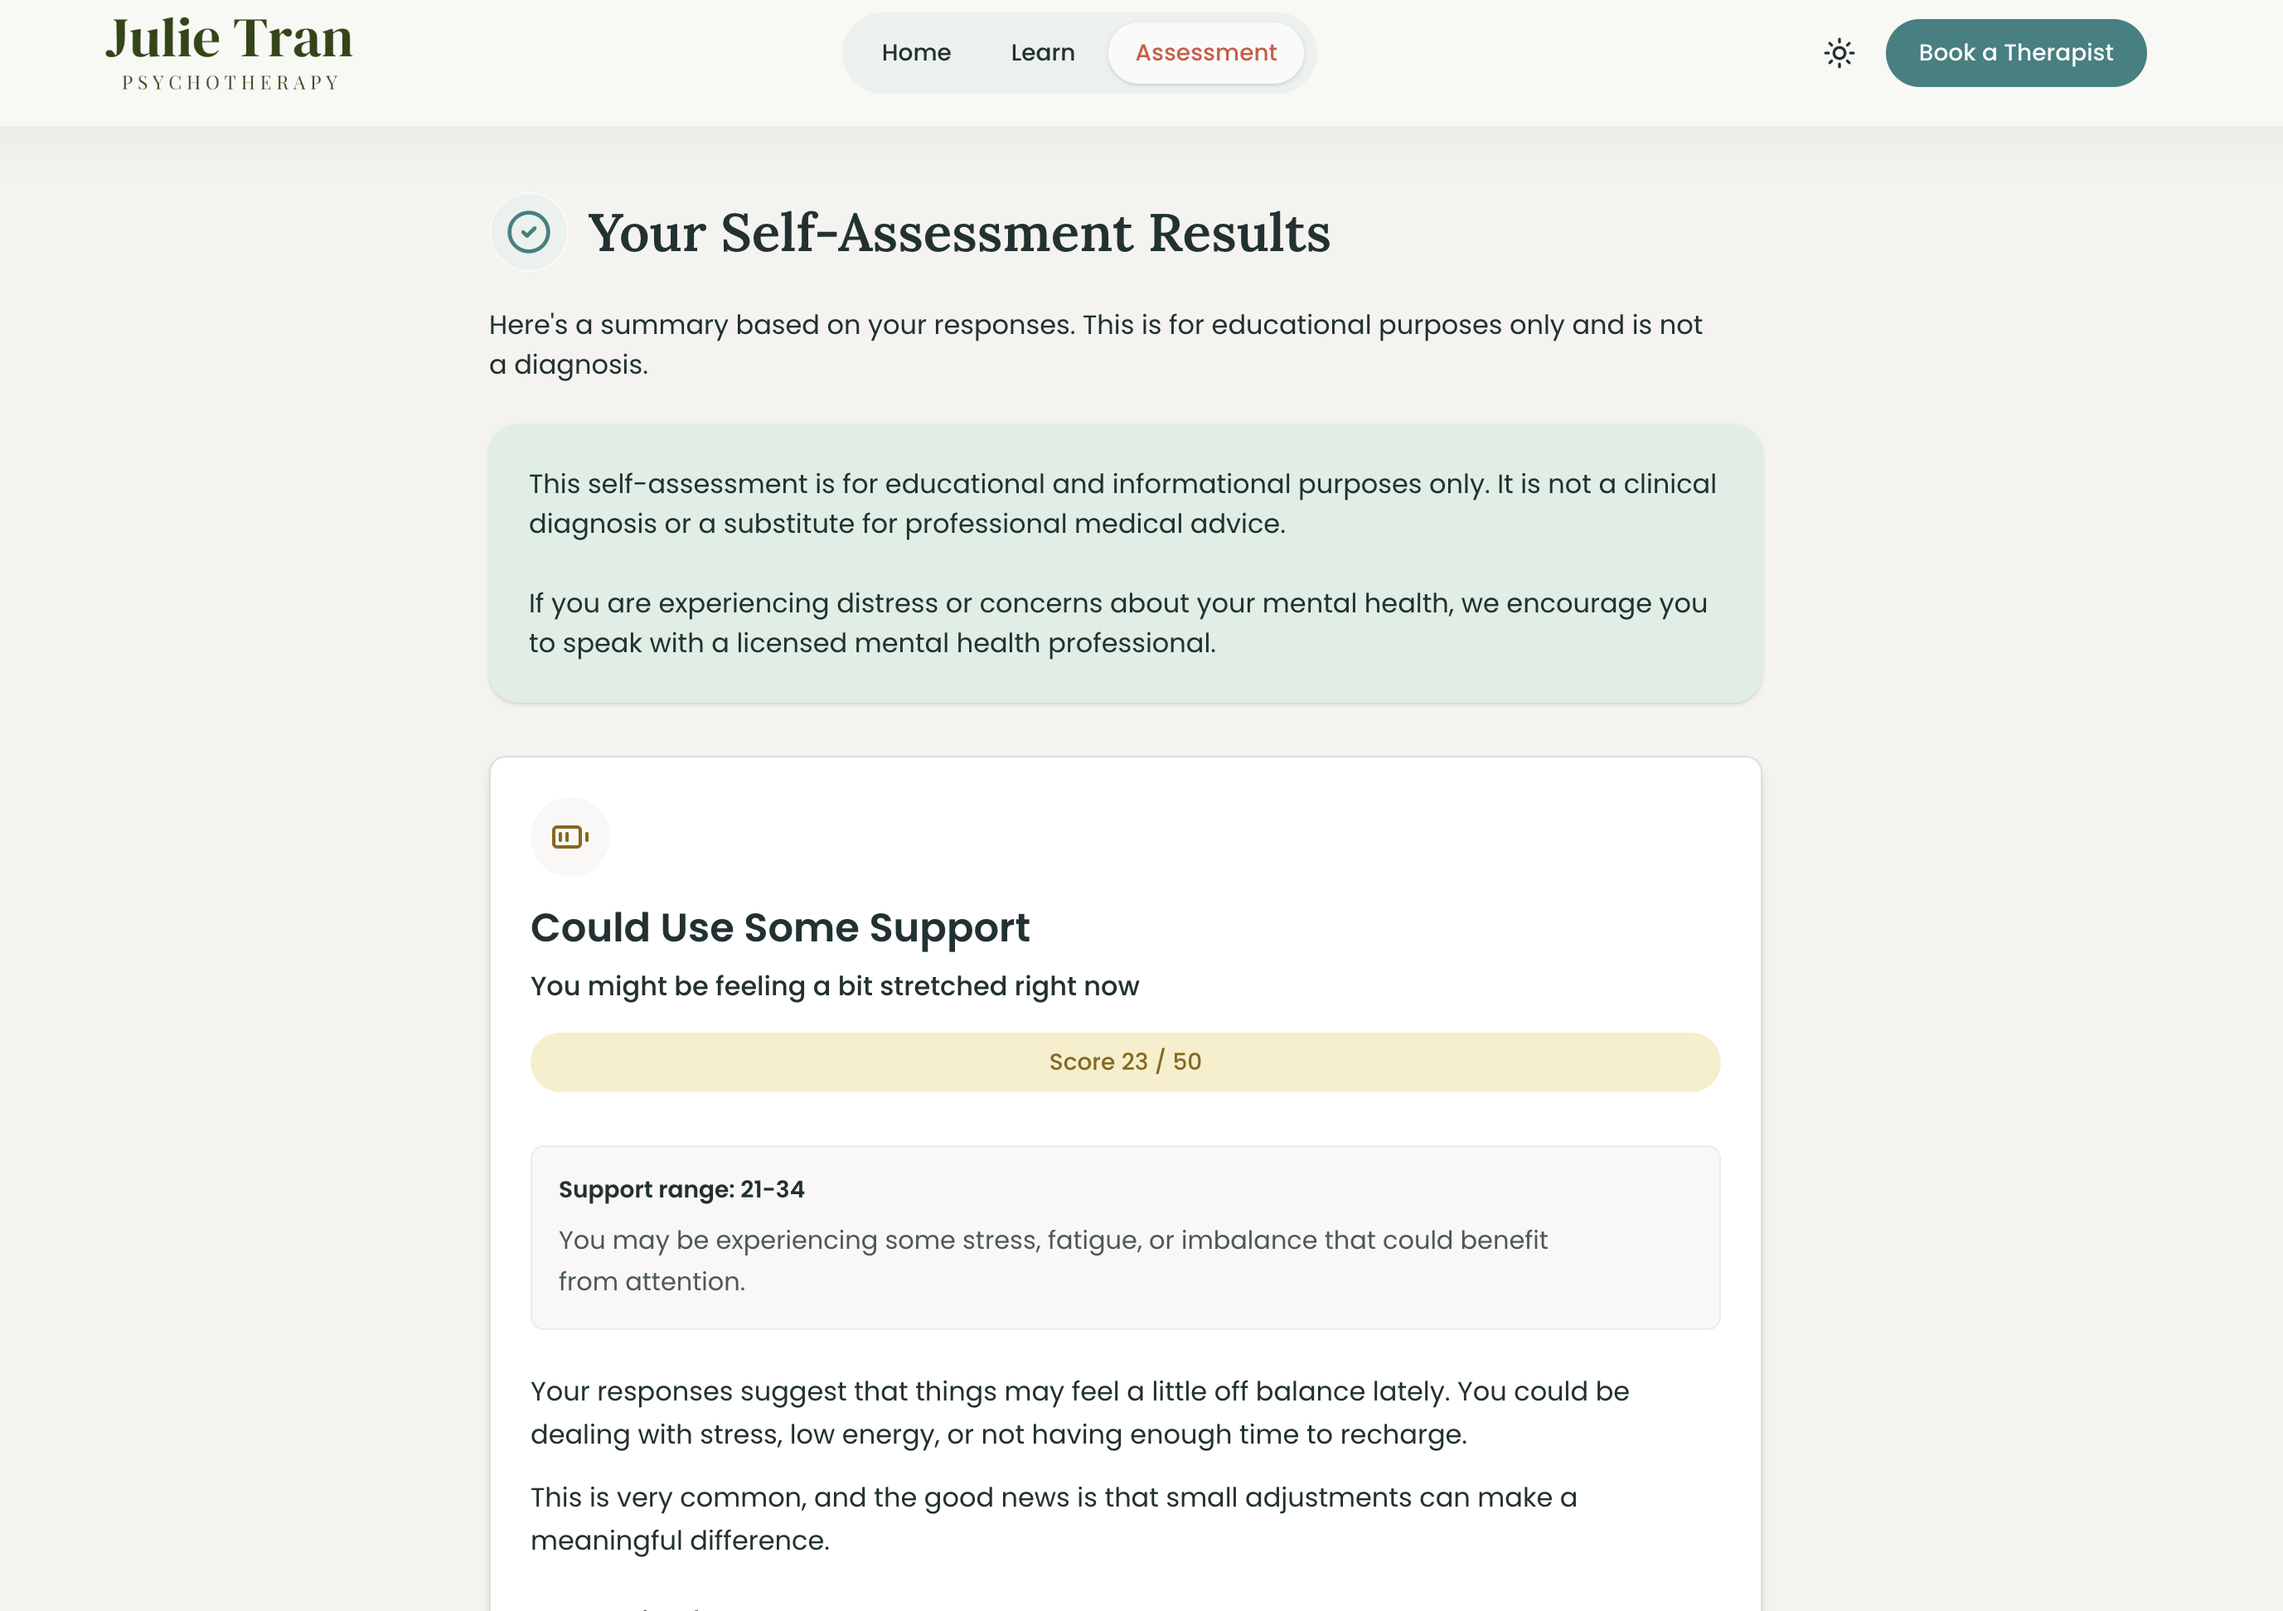
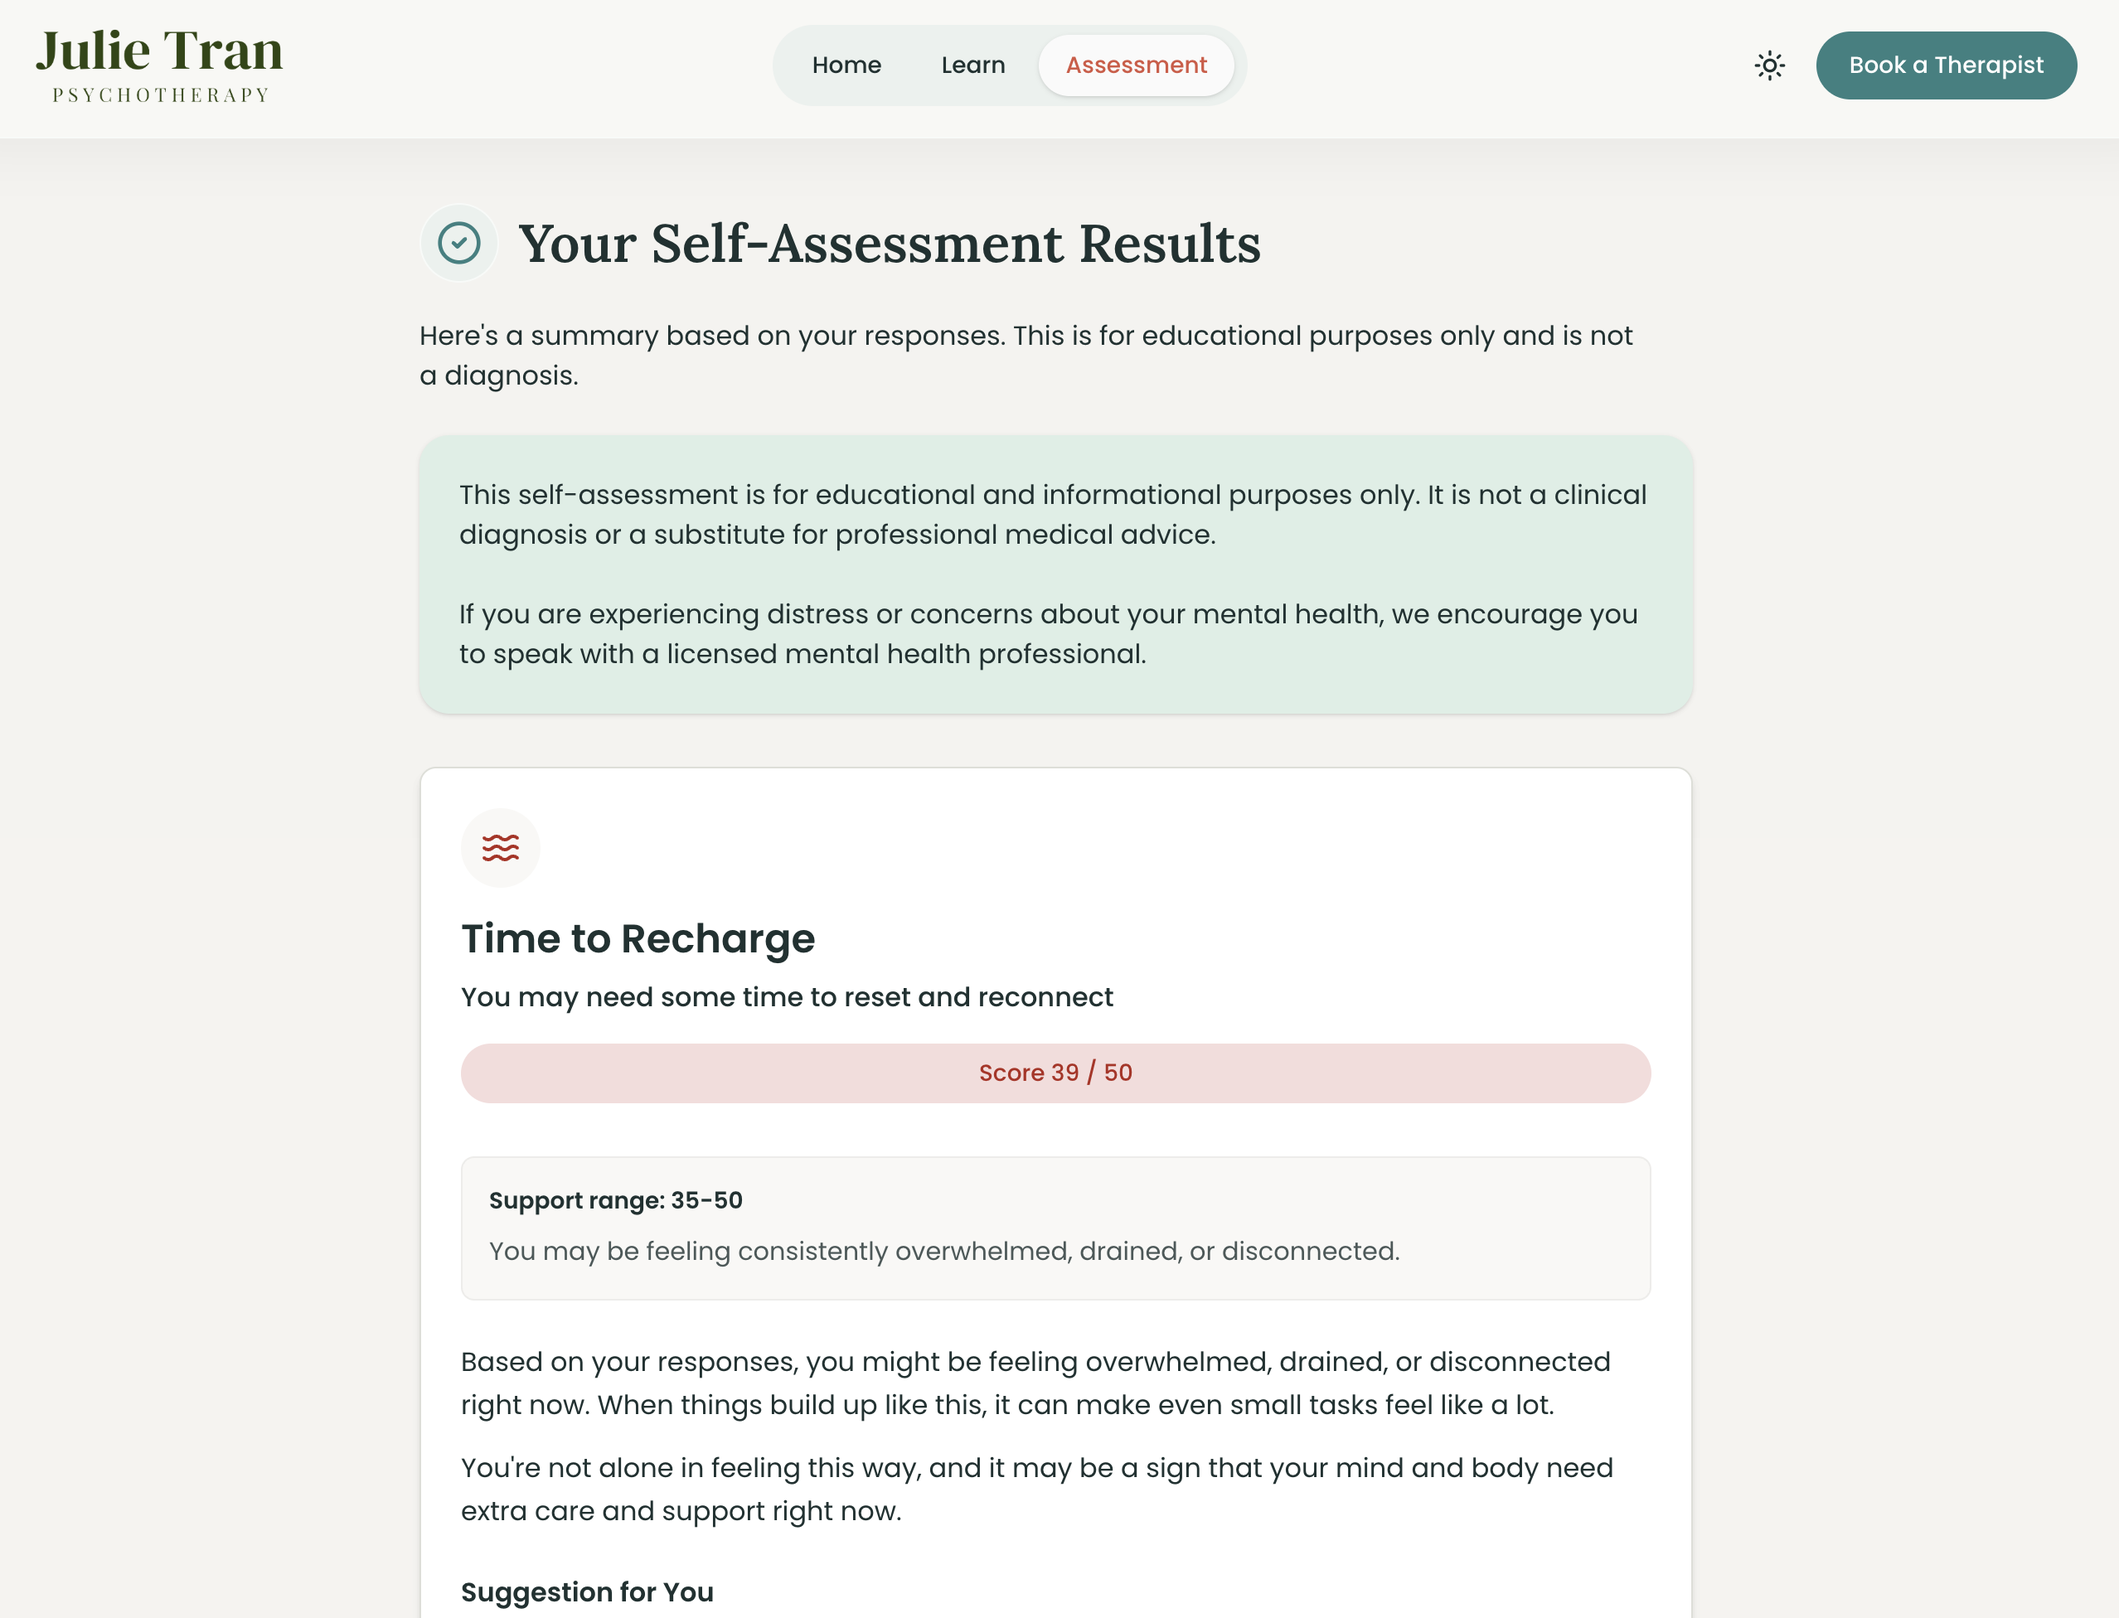
Update README

diff --git a/README.md b/README.md
@@ -319,7 +319,6 @@ result_level
 score
 completed_at
 created_at
-
 ```
 
 The backend creates anonymous partcipant names using the generated databse ID.
@@ -351,7 +350,6 @@ Completed: 2026-05-04
 Questions: 10
 Result: Moderate Support Needed
 Score: 28/50
-
 ```
 
 ## UI State
@@ -387,32 +385,64 @@ Current version:
 Future improvement
 
 ```txt
-- Replace localStorage auth with Supabase Auth
 - Add protected routes
 - Add role-based access
-- Store admin users securely
+```
+
+## Deployment
+The public React app is deployed on Vercel.
+
+### Frontend Deployment
+
+```
+Platform: Vercel
+Framework: React + Vite
+Build command: npm run build
+Output directory: dist
+```
+
+### Local Deployment
+Install dependencies:
+
+```bash
+npm install
+```
+Run the app locally:
+```bash
+npm run dev
+```
+Build the app:
+```
+npm run build
+```
+Preview the production build:
+```
+npm run preview
 ```
 
 
 ## App Screenshots
 
 ### Home Page
-<img src="/src//assets/project UI/home_page.png" alt="Home screen" width="" />
+<img src="/src//assets/project UI/home_page.png" alt="Home Page" width="600" />
 
 ### Learn Page
 
-<img src="/src/assets/project UI/understanding-therapy.jpg" alt="Understanding therapy" width="600" />
+<img src="/src/assets/project UI/learn_page.png" alt="Learn Page" width="600" />
 <br><br>
-<img src="/src/assets/project UI/understanding-therapy-2.jpg" alt="Understanding therapy" width="600" />
 
 ### Assessment Page
-<img src="/src/assets/project UI/assessment_page.png" alt="Assessment" width="70%" />
+<img src="/src/assets/project UI/assessment_page.png" alt="Assessment Page" width="600" />
+
 
 ### Result Page
-<img src="/src/assets/project UI/assessment_page.png" alt="Assessment" width="70%" />
+<img src="/src/assets/project UI/assessment_result.png" alt="Assessment Result" width="600" />
 
 ### Login/Sign Up Page
+<img src="/src/assets/project UI/login_tab.png" alt="Login Tab" width="600" />
 
+<img src="/src/assets/project UI/sign_up_tab.png" alt="Sign Up Tab" width="600" />
 
 ### Dashboard Page
+<img src="/src/assets/project UI/dashboard_page.png" alt="Dashboard Page" width="600" />
 
